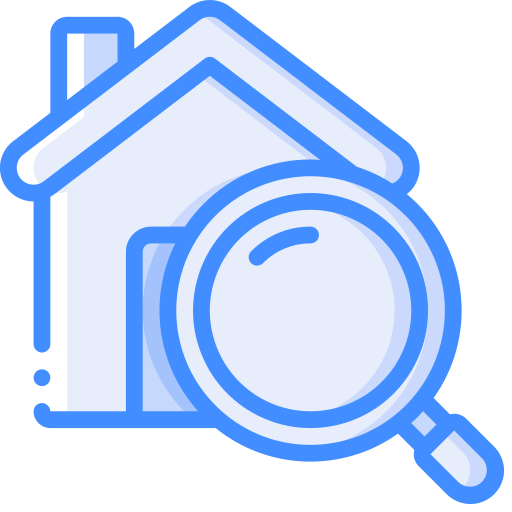
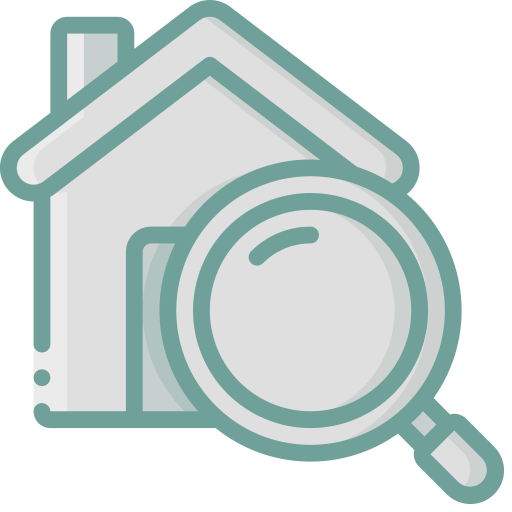
added homepage housecard design for house list

diff --git a/src/pages/Home/Banner.jsx b/src/pages/Home/Banner.jsx
@@ -1,0 +1,44 @@
+import { Container } from "../../components/Container";
+import banner from "../../assets/banner.png";
+import corner from "../../assets/corner.png";
+import Button from "../../components/Shared/Button";
+
+const Banner = () => {
+  return (
+    <div className="relative">
+      <img
+        className="absolute top-0 left-0 md:w-1/3 w-3/4"
+        src={corner}
+        alt="corner"
+      />
+      <img
+        className="absolute bottom-0 right-0 rotate-180 md:w-1/2 w-3/4"
+        src={corner}
+        alt="corner"
+      />
+      <Container>
+        <div className="md:flex justify-center items-center p-16 md:p-10 min-h-[90vh]">
+          <div className="md:text-left text-center">
+            <h1 className="text-primary font-bold md:text-7xl text-4xl">
+              House Hunter
+            </h1>
+            <p className="text-secondary2 my-5 md:w-3/4 mx-auto md:mx-0 text-justify">
+              Find your perfect rental home with our convenient house renter web
+              app. Discover a wide selection of properties available for rent,
+              complete with detailed descriptions, high-quality photos, and
+              helpful search filters.
+            </p>
+            <Button width="80%">Get Started</Button>
+          </div>
+          <img
+            className="md:w-1/2 mx-auto mt-10 md:mt-0"
+            src={banner}
+            alt="search"
+          />
+        </div>
+      </Container>
+    </div>
+  );
+};
+
+export default Banner;

diff --git a/src/components/cards/HouseCard.jsx b/src/components/cards/HouseCard.jsx
@@ -1,0 +1,40 @@
+import { BiCopy } from "react-icons/bi";
+import Button from "../Shared/Button";
+
+const HouseCard = ({ house }) => {
+  const {
+    image,
+    houseName,
+    address,
+    bedrooms,
+    bathrooms,
+    roomSize,
+    phoneNumber,
+    rentPerMonth,
+    availabilityDate,
+  } = house;
+  return (
+    <div className="bg-white shadow-lg rounded-xl p-5">
+      <img className="rounded-lg h-40 object-cover w-full" src={image} alt="" />
+      <div className="flex justify-between mt-2">
+        <h1 className="font-bold text-lg">{houseName}</h1>
+        <h1 className="font-semibold text-md">Rent:{rentPerMonth}TK</h1>
+      </div>
+      <h1 className="text-sm text-secondary">{address}</h1>
+      <div className="flex justify-between">
+        <h1 className="text-sm">Bed Rooms: {bedrooms}</h1>
+        <h1 className=" text-sm">Bath Rooms: {bathrooms}</h1>
+      </div>
+      <h1 className="text-sm">Room Size: {roomSize}</h1>
+      <h1 className="flex items-center gap-2 text-sm">
+        Room Size: {phoneNumber} <span></span>
+        <BiCopy color="green" className="hover:text-secondary cursor-pointer" />
+      </h1>
+      <h1 className="text-sm">Availability Date: {availabilityDate}</h1>
+      <p className="mt-2 mb-5">See Details</p>
+      <Button width="100%">Book Now</Button>
+    </div>
+  );
+};
+
+export default HouseCard;

diff --git a/src/pages/Home/HouseList.jsx b/src/pages/Home/HouseList.jsx
@@ -1,0 +1,43 @@
+import { useQuery } from "@tanstack/react-query";
+import { useAuth } from "../../context/AuthContext";
+import useAxiosSecure from "../../hooks/useAxiosSecure";
+import HouseCard from "../../components/cards/HouseCard";
+import { Container } from "../../components/Container";
+import { Loading } from "@nextui-org/react";
+
+const HouseList = () => {
+  const { currentUser } = useAuth();
+  const [axiosSecure] = useAxiosSecure();
+
+  const { isLoading, data: houses = [] } = useQuery({
+    queryKey: ["houses"],
+    queryFn: async () => {
+      const { data } = await axiosSecure.get(
+        `${import.meta.env.VITE_BASE_API_URL}/houses/${
+          JSON.parse(currentUser)?.email
+        }`
+      );
+      return data;
+    },
+  });
+
+  return (
+    <div className="p-10 bg-gray-50">
+      <Container>
+        {!isLoading ? (
+          <div className="grid grid-cols-1 sm:grid-cols-2 md:grid-cols-3 lg:grid-cols-4 gap-5">
+            {houses.map((house) => (
+              <HouseCard key={house?._id} house={house} />
+            ))}
+          </div>
+        ) : (
+          <div className="flex justify-center items-center">
+            <Loading size="large" />
+          </div>
+        )}
+      </Container>
+    </div>
+  );
+};
+
+export default HouseList;

diff --git a/src/components/cards/DashboardCard.jsx b/src/components/cards/DashboardCard.jsx
@@ -1,7 +1,7 @@
 export const DashboardCard = ({ number, title, extraStyle }) => {
   return (
     <div
-      className={`bg-sky-200 shadow-xl bg-opacity-80 px-8 py-3 text-center text-primary rounded ${extraStyle}`}
+      className={`bg-green-100 shadow-xl bg-opacity-80 px-8 py-3 text-center text-primary rounded ${extraStyle}`}
     >
       <h1 className="font-bold text-7xl">{number}</h1>
       <h1 className="font-semibold text-xl">{title}</h1>

diff --git a/src/pages/Home/Home.jsx b/src/pages/Home/Home.jsx
@@ -1,12 +1,11 @@
-import { Container } from "../../components/Container";
-import { useAuth } from "../../context/AuthContext";
+import Banner from "./Banner";
+import HouseList from "./HouseList";
 
 export const Home = () => {
-  const { currentUser } = useAuth();
-
   return (
     <div>
-      <Container> {currentUser || "Guest"}</Container>
+      <Banner />
+      <HouseList />
     </div>
   );
 };

diff --git a/src/components/Shared/Button.jsx b/src/components/Shared/Button.jsx
@@ -19,7 +19,7 @@ const Button = ({
       }}
       className={`${
         sm && "text-sm"
-      } text-center bg-primary hover:bg-sky-500 py-2 px-6 text-white rounded`}
+      } text-center bg-primary hover:bg-green-900 py-2 px-6 text-white rounded-full`}
     >
       {loading ? <Loading color="white" type="spinner" /> : children}
     </button>

diff --git a/tailwind.config.js b/tailwind.config.js
@@ -5,7 +5,8 @@ export default {
   theme: {
     extend: {
       colors: {
-        primary: "#15aaff",
+        primary: "#477662",
+        secondary: "#305848",
       },
     },
   },
